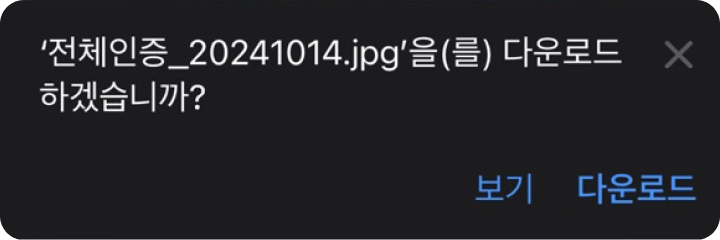
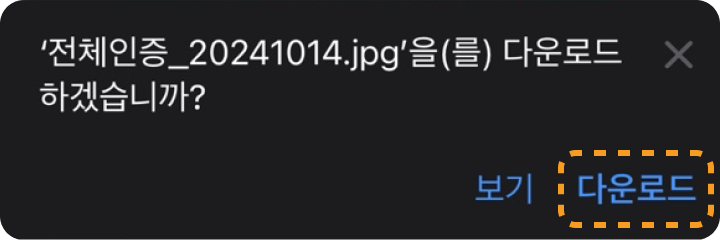
서비스 이용안내 완료

diff --git a/src/views/Gut00024.vue b/src/views/Gut00024.vue
@@ -6,7 +6,7 @@
         <div class="tag on">것모닝 인증방법 안내</div>
         <div class="tag">팀 만들기 안내</div>
       </div>
-      <div class="tag_cont on">
+      <div class="tag_cont">
         <div class="service__area">
           <div class="service__title">
             <p class="title__num">01</p>
@@ -52,16 +52,127 @@
             <img class="title__img" :src="require('@/assets/images/apple_logo.svg')">
           </div>
           <div class="card card--border">
+            <div class="safari_title">
+              아이폰( <span class="img"><img :src="require('@/assets/images/safari_logo.svg')"></span> Safari) 사용자의 경우, <br class="mo-only" />
+              이미지 저장 가이드를 꼭 확인 해주세요!
+            </div>
             <div class="service__title">
               <p class="title__num black">01</p>
               <p class="title__text">이미지 저장 버튼 선택 후, 팝업에서 <br class="mo-only" /><span>‘다운로드’</span> 선택</p>
+            </div>
+            <div class="safari_img">
+              <img :src="require('@/assets/images/service1_safari1.png')">
+            </div>
+            <div class="service__title">
+              <p class="title__num black">02</p>
+              <p class="title__text">
+                Safari 브라우저 왼쪽 하단의 <br class="mo-only" />
+                파란색 다운로드 아이콘 <span class="safari_icon1"><img :src="require('@/assets/images/safari_download.svg')"></span> 을 선택 <br class="mo-only" />
+                -> 메뉴에서 다운로드 <span class="safari_icon2"><img :src="require('@/assets/images/safari_down_on.svg')"></span> 를 선택 <br class="mo-only" />
+                -> 이미지 저장
+              </p>
+            </div>
+            <div class="safari_img">
+              <img :src="require('@/assets/images/service1_safari2.png')">
+            </div>
+            <div class="service__title">
+              <p class="title__num black">03</p>
+              <p class="title__text">카메라 앨범에 저장된 사진을 <br class="mo-only" />카카오톡 또는 SNS 채널에 공유해 보세요.</p>
             </div>
           </div>
         </div>
       </div>
 
-      <div class="tag_cont">
-        2
+      <div class="tag_cont on">
+        <div class="service__label">챌린지 팀 만들기</div>
+
+        <div class="service__area">
+          <div class="service__title">
+            <p class="title__num orange">01</p>
+            <p class="title__text">팀 만들기 버튼 선택하기</p>
+          </div>
+          <p class="service__text">
+            나의팀 목록 오른쪽 하단의 <br class="mo-only" />
+            팀 만들기 <span class="add_icon"><img :src="require('@/assets/images/service_add.svg')"></span> 버튼을 선택하세요.
+          </p>
+          <div class="service__img">
+            <img class="img2_1" :src="require('@/assets/images/service2_1.png')">
+          </div>
+        </div>
+
+        <div class="service__area">
+          <div class="service__title">
+            <p class="title__num orange">02</p>
+            <p class="title__text">챌린지 팀 만들기</p>
+          </div>
+          <p class="service__text">
+            ABO/Member 인증 회원인 경우 <br class="mo-only" />
+            챌린지 팀을 만들 수 있습니다.
+          </p>
+          <div class="service__img">
+            <img class="img2_2" :src="require('@/assets/images/service2_2.png')">
+          </div>
+        </div>
+
+        <div class="service__area">
+          <div class="service__title">
+            <p class="title__num orange">03</p>
+            <p class="title__text">팀 만들기 완료</p>
+          </div>
+          <p class="service__text">
+            팀 만들기를 완료 하시면 <br class="mo-only" />
+            나의 팀 목록화면으로 이동되며, <br class="mo-only" />
+            생성된 챌린지팀 정보를 확인 할 수 있습니다.
+          </p>
+          <div class="service__img">
+            <img class="img2_3" :src="require('@/assets/images/service2_3.png')">
+          </div>
+        </div>
+
+        <div class="service__label">상시 팀 만들기</div>
+
+        <div class="service__area">
+          <div class="service__title">
+            <p class="title__num orange">01</p>
+            <p class="title__text">팀 만들기 버튼 선택하기</p>
+          </div>
+          <p class="service__text">
+            나의팀 목록 오른쪽 하단의 <br class="mo-only" />
+            팀 만들기 <span class="add_icon"><img :src="require('@/assets/images/service_add.svg')"></span> 버튼을 선택하세요.
+          </p>
+          <div class="service__img">
+            <img class="img2_1" :src="require('@/assets/images/service2_4.png')">
+          </div>
+        </div>
+
+        <div class="service__area">
+          <div class="service__title">
+            <p class="title__num orange">02</p>
+            <p class="title__text">상시 팀 만들기</p>
+          </div>
+          <p class="service__text">
+            ABO/Member 인증 회원인 경우 <br class="mo-only" />
+            상시 팀을 만들 수 있습니다.
+          </p>
+          <div class="service__img">
+            <img class="img2_2" :src="require('@/assets/images/service2_5.png')">
+          </div>
+        </div>
+
+        <div class="service__area">
+          <div class="service__title">
+            <p class="title__num orange">03</p>
+            <p class="title__text">팀 만들기 완료</p>
+          </div>
+          <p class="service__text">
+            팀 만들기를 완료 하시면 <br class="mo-only" />
+            나의 팀 목록화면으로 이동되며, <br class="mo-only" />
+            생성된 상시팀정보를 확인 할 수 있습니다.
+          </p>
+          <div class="service__img">
+            <img class="img2_3" :src="require('@/assets/images/service2_6.png')">
+          </div>
+        </div>
       </div>
     </div>
   </div>

diff --git a/src/assets/style/challenge.scss b/src/assets/style/challenge.scss
@@ -1609,6 +1609,32 @@
     &:last-child {
       margin-bottom: 96px;
     }
+    .safari_title {
+      margin-bottom: 24px;
+      font-size: 18px;
+      font-weight: 800;
+      line-height: 24px;
+      text-align: center;
+      color: #111;
+      .img {
+        position: relative;
+        display: inline-block;
+        width: 21px;
+        img {
+          position: absolute;
+          top: -16px;
+          left: 0;
+          width: 100%;
+        }
+      }
+    }
+    .safari_img {
+      margin: 14px auto 24px;
+      width: 83.333%;
+    }
+    & + .service__label {
+      margin-top: 64px;
+    }
   }
   &__title {
     display: flex;
@@ -1656,6 +1682,28 @@
             background-size: cover;
           }
         }
+        .safari_icon1 {
+          position: relative;
+          display: inline-block;
+          width: 16px;
+          img {
+            position: absolute;
+            left: 0;
+            top: -13px;
+            width: 100%;
+          }
+        }
+        .safari_icon2 {
+          position: relative;
+          display: inline-block;
+          width: 21px;
+          img {
+            position: absolute;
+            left: 0;
+            top: -15px;
+            width: 100%;
+          }
+        }
       }
       &__img {
         height: 40px;
@@ -1681,6 +1729,27 @@
       text-align: center;
       color: #999;
     }
+    .add_icon {
+      position: relative;
+      display: inline-block;
+      width: 24px;
+      img {
+        position: absolute;
+        top: -16px;
+        left: 0;
+        width: 100%;
+      }
+    }
+  }
+  &__label {
+    margin: 24px -20px 0;
+    padding: 12px;
+    font-size: 24px;
+    font-weight: 800;
+    line-height: 32px;
+    text-align: center;
+    color: #169E4A;
+    background-color: #E5F6EC;
   }
   &__division {
     width: 144px;
@@ -1720,6 +1789,21 @@
     .img1_4 {
       width: 90%;
       margin-left: -1.11%;
+      justify-self: center;
+    }
+    .img2_1 {
+      width: 62.222%;
+      margin-left: 5.555%;
+      justify-self: center;
+    }
+    .img2_2 {
+      width: 90%;
+      margin-left: -1.111%;
+      justify-self: center;
+    }
+    .img2_3 {
+      width: 62.222%;
+      margin-left: 5.555%;
       justify-self: center;
     }
   }
